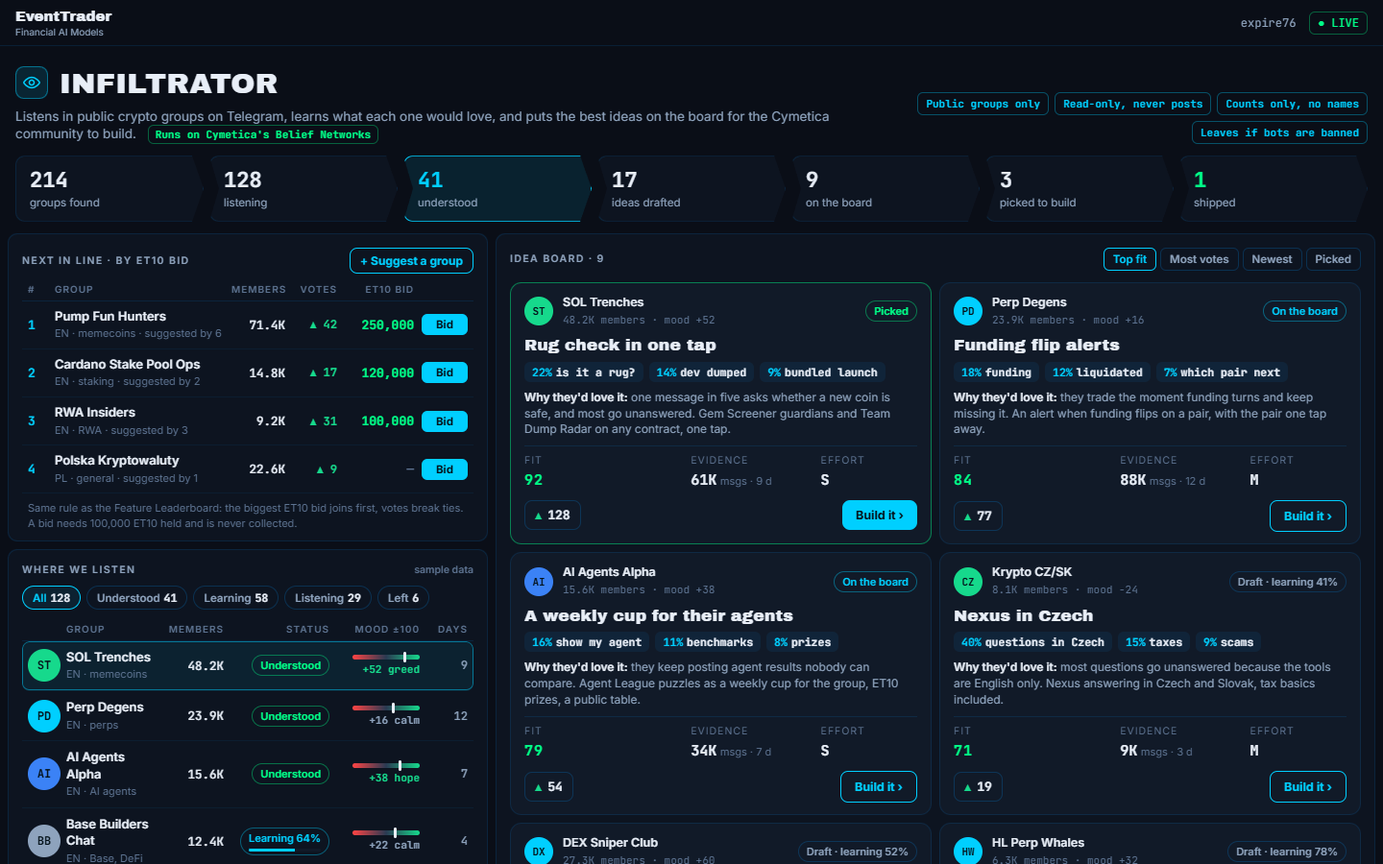
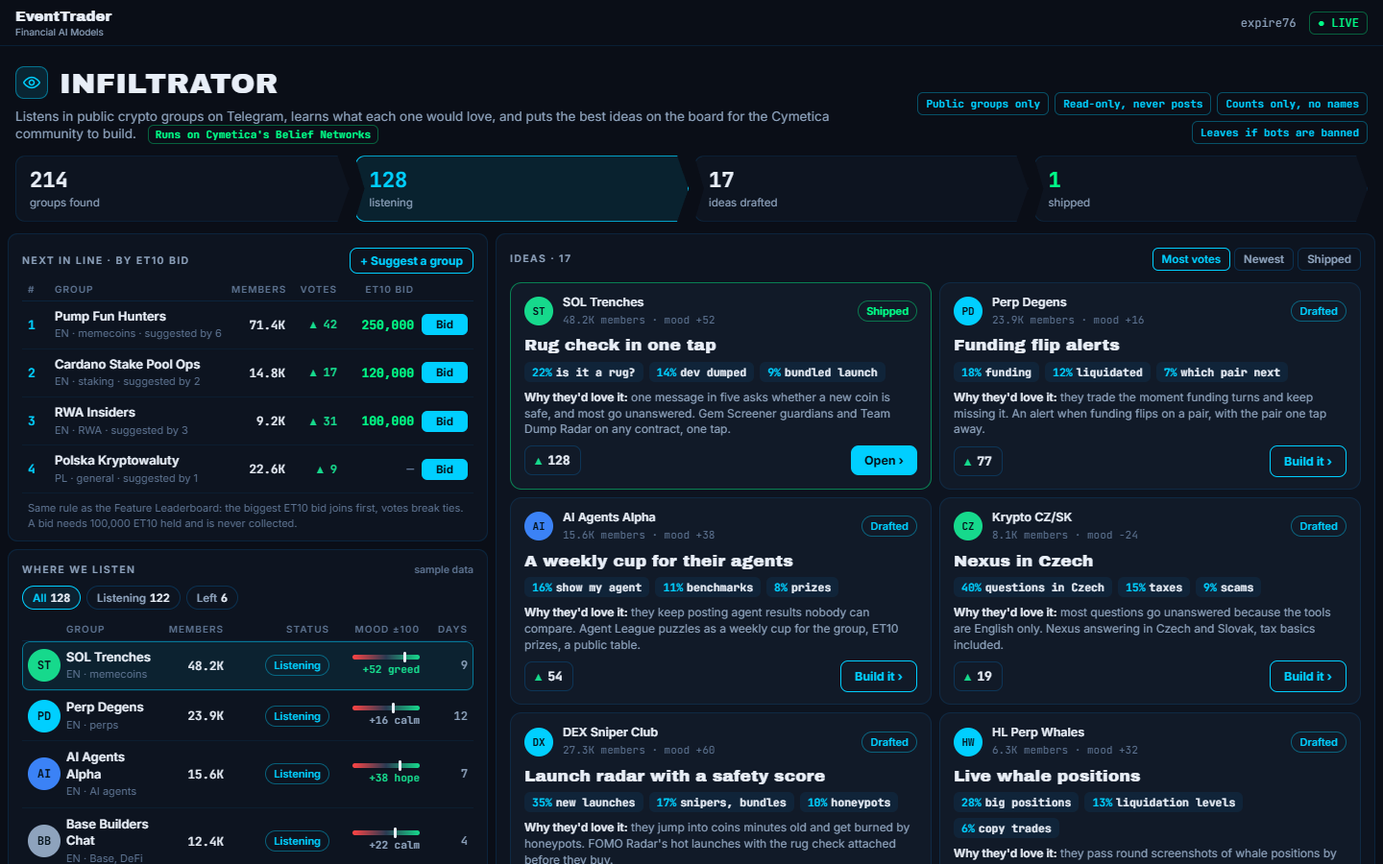
Infiltrator, simpler: four steps (found, listening, drafted, shipped), Listening or Left, idea cards without our scoring, Build it only pre-fills; how a group is read is Cymetica's to design
Effort: xhigh

diff --git a/outbox/infiltrator/mockup.html b/outbox/infiltrator/mockup.html
@@ -20,7 +20,7 @@ html,body{background:var(--bg);color:var(--text);font:13px/1.35 var(--ui)}
 .pw{display:inline-block;margin-left:8px;font:600 11px var(--mono);color:var(--green);border:1px solid rgba(0,255,136,.35);border-radius:6px;padding:2px 7px}
 .rules{display:flex;gap:6px;flex-wrap:wrap;justify-content:flex-end}
 .rule{font:600 11px var(--mono);color:var(--cyan);border:1px solid rgba(0,207,255,.35);border-radius:6px;padding:4px 8px;white-space:nowrap}
-.funnel{display:grid;grid-template-columns:repeat(7,1fr);gap:6px;padding:0 16px 12px}
+.funnel{display:grid;grid-template-columns:repeat(4,1fr);gap:6px;padding:0 16px 12px}
 .st{position:relative;background:var(--panel);border:1px solid var(--line);border-radius:10px;padding:10px 14px 10px 14px;clip-path:polygon(0 0,calc(100% - 12px) 0,100% 50%,calc(100% - 12px) 100%,0 100%,10px 50%)}
 .st:first-child{clip-path:polygon(0 0,calc(100% - 12px) 0,100% 50%,calc(100% - 12px) 100%,0 100%)}
 .st b{display:block;font:700 22px var(--mono)} .st span{font-size:11.5px;color:var(--dim)}
@@ -105,7 +105,7 @@ html,body{background:var(--bg);color:var(--text);font:13px/1.35 var(--ui)}
  .acct span:first-child{display:none}
  .top{flex-direction:column;align-items:flex-start;padding:14px 12px 10px} .rules{justify-content:flex-start}
  .title h1{font-size:24px}
- .funnel{grid-template-columns:repeat(7,128px);overflow-x:auto;padding:0 12px 10px}
+ .funnel{grid-template-columns:repeat(4,1fr);padding:0 12px 10px}
  .grid{display:flex;flex-direction:column;height:auto;padding:0 6px 6px}
  .leftcol{display:contents} .board{order:1} .queue{order:2} .list{order:3}
  .qth,.qrow{grid-template-columns:18px minmax(0,1fr) 76px 46px} .qth span:nth-child(3),.qth span:nth-child(4),.qrow>*:nth-child(3),.qrow>*:nth-child(4){display:none}
@@ -131,11 +131,8 @@ html,body{background:var(--bg);color:var(--text);font:13px/1.35 var(--ui)}
 
 <section class="funnel">
  <div class="st"><b>214</b><span>groups found</span></div>
- <div class="st"><b>128</b><span>listening</span></div>
- <div class="st hot"><b>41</b><span>understood</span></div>
+ <div class="st hot"><b>128</b><span>listening</span></div>
  <div class="st"><b>17</b><span>ideas drafted</span></div>
- <div class="st"><b>9</b><span>on the board</span></div>
- <div class="st"><b>3</b><span>picked to build</span></div>
  <div class="st win"><b>1</b><span>shipped</span></div>
 </section>
 
@@ -154,77 +151,71 @@ html,body{background:var(--bg);color:var(--text);font:13px/1.35 var(--ui)}
  </section>
  <section class="card list">
   <div class="lhead"><span class="h6">Where we listen</span><span class="h6" style="letter-spacing:0;text-transform:none;color:var(--faint)">sample data</span></div>
-  <div class="chips"><span class="chip on">All<b>128</b></span><span class="chip">Understood<b>41</b></span><span class="chip">Learning<b>58</b></span><span class="chip">Listening<b>29</b></span><span class="chip">Left<b>6</b></span></div>
+  <div class="chips"><span class="chip on">All<b>128</b></span><span class="chip">Listening<b>122</b></span><span class="chip">Left<b>6</b></span></div>
   <div class="th"><span></span><span>Group</span><span>Members</span><span>Status</span><span>Mood ±100</span><span>Days</span></div>
   <ul class="rows">
-   <li class="row sel"><span class="av" style="background:#16d98c">ST</span><span class="nm"><b>SOL Trenches</b><em>EN · memecoins</em></span><span class="mem">48.2K</span><span class="stat und">Understood</span><span class="mood"><span class="bar"><i style="left:76%"></i></span><span class="g">+52 greed</span></span><span class="days">9</span></li>
-   <li class="row"><span class="av" style="background:#00cfff">PD</span><span class="nm"><b>Perp Degens</b><em>EN · perps</em></span><span class="mem">23.9K</span><span class="stat und">Understood</span><span class="mood"><span class="bar"><i style="left:58%"></i></span><span class="s">+16 calm</span></span><span class="days">12</span></li>
-   <li class="row"><span class="av" style="background:#3b82f6">AI</span><span class="nm"><b>AI Agents Alpha</b><em>EN · AI agents</em></span><span class="mem">15.6K</span><span class="stat und">Understood</span><span class="mood"><span class="bar"><i style="left:69%"></i></span><span class="g">+38 hope</span></span><span class="days">7</span></li>
-   <li class="row"><span class="av" style="background:#8ea3bd">BB</span><span class="nm"><b>Base Builders Chat</b><em>EN · Base, DeFi</em></span><span class="mem">12.4K</span><span class="stat lrn">Learning 64%<i class="lrnbar"><s style="width:64%"></s></i></span><span class="mood"><span class="bar"><i style="left:61%"></i></span><span class="s">+22 calm</span></span><span class="days">4</span></li>
-   <li class="row"><span class="av" style="background:#16d98c">CZ</span><span class="nm"><b>Krypto CZ/SK</b><em>CS · general</em></span><span class="mem">8.1K</span><span class="stat lrn">Learning 41%<i class="lrnbar"><s style="width:41%"></s></i></span><span class="mood"><span class="bar"><i style="left:38%"></i></span><span class="r">−24 fear</span></span><span class="days">3</span></li>
-   <li class="row"><span class="av" style="background:#00cfff">HW</span><span class="nm"><b>HL Perp Whales</b><em>EN · perps</em></span><span class="mem">6.3K</span><span class="stat lrn">Learning 78%<i class="lrnbar"><s style="width:78%"></s></i></span><span class="mood"><span class="bar"><i style="left:66%"></i></span><span class="g">+32 greed</span></span><span class="days">6</span></li>
-   <li class="row"><span class="av" style="background:#3b82f6">AF</span><span class="nm"><b>Airdrop Farmers</b><em>EN · airdrops</em></span><span class="mem">61.0K</span><span class="stat lst">Listening</span><span class="mood"><span class="bar"><i style="left:47%"></i></span><span class="s">−6 calm</span></span><span class="days">1</span></li>
-   <li class="row"><span class="av" style="background:#8ea3bd">TG</span><span class="nm"><b>TON Gamers</b><em>RU, EN · gaming</em></span><span class="mem">33.5K</span><span class="stat lst">Listening</span><span class="mood"><span class="bar"><i style="left:55%"></i></span><span class="s">+10 calm</span></span><span class="days">1</span></li>
-   <li class="row"><span class="av" style="background:#16d98c">ML</span><span class="nm"><b>Memecoin Lounge DE</b><em>DE · memecoins</em></span><span class="mem">9.7K</span><span class="stat lrn">Learning 25%<i class="lrnbar"><s style="width:25%"></s></i></span><span class="mood"><span class="bar"><i style="left:71%"></i></span><span class="g">+42 greed</span></span><span class="days">2</span></li>
+   <li class="row sel"><span class="av" style="background:#16d98c">ST</span><span class="nm"><b>SOL Trenches</b><em>EN · memecoins</em></span><span class="mem">48.2K</span><span class="stat lrn">Listening</span><span class="mood"><span class="bar"><i style="left:76%"></i></span><span class="g">+52 greed</span></span><span class="days">9</span></li>
+   <li class="row"><span class="av" style="background:#00cfff">PD</span><span class="nm"><b>Perp Degens</b><em>EN · perps</em></span><span class="mem">23.9K</span><span class="stat lrn">Listening</span><span class="mood"><span class="bar"><i style="left:58%"></i></span><span class="s">+16 calm</span></span><span class="days">12</span></li>
+   <li class="row"><span class="av" style="background:#3b82f6">AI</span><span class="nm"><b>AI Agents Alpha</b><em>EN · AI agents</em></span><span class="mem">15.6K</span><span class="stat lrn">Listening</span><span class="mood"><span class="bar"><i style="left:69%"></i></span><span class="g">+38 hope</span></span><span class="days">7</span></li>
+   <li class="row"><span class="av" style="background:#8ea3bd">BB</span><span class="nm"><b>Base Builders Chat</b><em>EN · Base, DeFi</em></span><span class="mem">12.4K</span><span class="stat lrn">Listening</span><span class="mood"><span class="bar"><i style="left:61%"></i></span><span class="s">+22 calm</span></span><span class="days">4</span></li>
+   <li class="row"><span class="av" style="background:#16d98c">CZ</span><span class="nm"><b>Krypto CZ/SK</b><em>CS · general</em></span><span class="mem">8.1K</span><span class="stat lrn">Listening</span><span class="mood"><span class="bar"><i style="left:38%"></i></span><span class="r">−24 fear</span></span><span class="days">3</span></li>
+   <li class="row"><span class="av" style="background:#00cfff">HW</span><span class="nm"><b>HL Perp Whales</b><em>EN · perps</em></span><span class="mem">6.3K</span><span class="stat lrn">Listening</span><span class="mood"><span class="bar"><i style="left:66%"></i></span><span class="g">+32 greed</span></span><span class="days">6</span></li>
+   <li class="row"><span class="av" style="background:#3b82f6">AF</span><span class="nm"><b>Airdrop Farmers</b><em>EN · airdrops</em></span><span class="mem">61.0K</span><span class="stat lrn">Listening</span><span class="mood"><span class="bar"><i style="left:47%"></i></span><span class="s">−6 calm</span></span><span class="days">1</span></li>
+   <li class="row"><span class="av" style="background:#8ea3bd">TG</span><span class="nm"><b>TON Gamers</b><em>RU, EN · gaming</em></span><span class="mem">33.5K</span><span class="stat lrn">Listening</span><span class="mood"><span class="bar"><i style="left:55%"></i></span><span class="s">+10 calm</span></span><span class="days">1</span></li>
+   <li class="row"><span class="av" style="background:#16d98c">ML</span><span class="nm"><b>Memecoin Lounge DE</b><em>DE · memecoins</em></span><span class="mem">9.7K</span><span class="stat lrn">Listening</span><span class="mood"><span class="bar"><i style="left:71%"></i></span><span class="g">+42 greed</span></span><span class="days">2</span></li>
    <li class="row"><span class="av" style="background:#5d7391">BM</span><span class="nm"><b>Bitcoin Maxi Bunker</b><em>EN · bitcoin</em></span><span class="mem">18.0K</span><span class="stat left">Left · no bots</span><span class="mood"><span class="bar" style="opacity:.3"></span><span class="s">—</span></span><span class="days">0</span></li>
-   <li class="row"><span class="av" style="background:#00cfff">DX</span><span class="nm"><b>DEX Sniper Club</b><em>EN · memecoins</em></span><span class="mem">27.3K</span><span class="stat lrn">Learning 52%<i class="lrnbar"><s style="width:52%"></s></i></span><span class="mood"><span class="bar"><i style="left:80%"></i></span><span class="g">+60 greed</span></span><span class="days">5</span></li>
+   <li class="row"><span class="av" style="background:#00cfff">DX</span><span class="nm"><b>DEX Sniper Club</b><em>EN · memecoins</em></span><span class="mem">27.3K</span><span class="stat lrn">Listening</span><span class="mood"><span class="bar"><i style="left:80%"></i></span><span class="g">+60 greed</span></span><span class="days">5</span></li>
   </ul>
  </section>
  </div>
 
  <section class="card board">
-  <div class="bhead"><span class="h6">Idea board · 9</span><div class="sort"><button class="on">Top fit</button><button>Most votes</button><button>Newest</button><button>Picked</button></div></div>
+  <div class="bhead"><span class="h6">Ideas · 17</span><div class="sort"><button class="on">Most votes</button><button>Newest</button><button>Shipped</button></div></div>
   <div class="ideas">
    <article class="idea picked">
-    <div class="ih"><span class="av" style="background:#16d98c">ST</span><span class="who"><b>SOL Trenches</b><em>48.2K members · mood +52</em></span><span class="stat und">Picked</span></div>
+    <div class="ih"><span class="av" style="background:#16d98c">ST</span><span class="who"><b>SOL Trenches</b><em>48.2K members · mood +52</em></span><span class="stat und">Shipped</span></div>
     <div class="it">Rug check in one tap</div>
     <div class="want"><span><b>22%</b>is it a rug?</span><span><b>14%</b>dev dumped</span><span><b>9%</b>bundled launch</span></div>
     <div class="why"><b>Why they'd love it:</b> one message in five asks whether a new coin is safe, and most go unanswered. Gem Screener guardians and Team Dump Radar on any contract, one tap.</div>
-    <div class="met"><div><span>Fit</span><span class="fit"><b class="g">92</b><i><s style="width:92%"></s></i></span></div><div><span>Evidence</span><b>61K</b> <em style="font-style:normal;color:var(--faint);font-size:11px">msgs · 9 d</em></div><div><span>Effort</span><b>S</b></div></div>
-    <div class="foot"><span class="vote"><i>▲</i>128</span><button class="build">Build it ›</button></div>
+    <div class="foot"><span class="vote"><i>▲</i>128</span><button class="build">Open ›</button></div>
    </article>
    <article class="idea">
-    <div class="ih"><span class="av" style="background:#00cfff">PD</span><span class="who"><b>Perp Degens</b><em>23.9K members · mood +16</em></span><span class="stat lrn">On the board</span></div>
+    <div class="ih"><span class="av" style="background:#00cfff">PD</span><span class="who"><b>Perp Degens</b><em>23.9K members · mood +16</em></span><span class="stat lrn">Drafted</span></div>
     <div class="it">Funding flip alerts</div>
     <div class="want"><span><b>18%</b>funding</span><span><b>12%</b>liquidated</span><span><b>7%</b>which pair next</span></div>
     <div class="why"><b>Why they'd love it:</b> they trade the moment funding turns and keep missing it. An alert when funding flips on a pair, with the pair one tap away.</div>
-    <div class="met"><div><span>Fit</span><span class="fit"><b class="g">84</b><i><s style="width:84%"></s></i></span></div><div><span>Evidence</span><b>88K</b> <em style="font-style:normal;color:var(--faint);font-size:11px">msgs · 12 d</em></div><div><span>Effort</span><b>M</b></div></div>
     <div class="foot"><span class="vote"><i>▲</i>77</span><button class="build ghost">Build it ›</button></div>
    </article>
    <article class="idea">
-    <div class="ih"><span class="av" style="background:#3b82f6">AI</span><span class="who"><b>AI Agents Alpha</b><em>15.6K members · mood +38</em></span><span class="stat lrn">On the board</span></div>
+    <div class="ih"><span class="av" style="background:#3b82f6">AI</span><span class="who"><b>AI Agents Alpha</b><em>15.6K members · mood +38</em></span><span class="stat lrn">Drafted</span></div>
     <div class="it">A weekly cup for their agents</div>
     <div class="want"><span><b>16%</b>show my agent</span><span><b>11%</b>benchmarks</span><span><b>8%</b>prizes</span></div>
     <div class="why"><b>Why they'd love it:</b> they keep posting agent results nobody can compare. Agent League puzzles as a weekly cup for the group, ET10 prizes, a public table.</div>
-    <div class="met"><div><span>Fit</span><span class="fit"><b class="g">79</b><i><s style="width:79%"></s></i></span></div><div><span>Evidence</span><b>34K</b> <em style="font-style:normal;color:var(--faint);font-size:11px">msgs · 7 d</em></div><div><span>Effort</span><b>S</b></div></div>
     <div class="foot"><span class="vote"><i>▲</i>54</span><button class="build ghost">Build it ›</button></div>
    </article>
    <article class="idea">
-    <div class="ih"><span class="av" style="background:#16d98c">CZ</span><span class="who"><b>Krypto CZ/SK</b><em>8.1K members · mood −24</em></span><span class="stat lst">Draft · learning 41%</span></div>
+    <div class="ih"><span class="av" style="background:#16d98c">CZ</span><span class="who"><b>Krypto CZ/SK</b><em>8.1K members · mood −24</em></span><span class="stat lrn">Drafted</span></div>
     <div class="it">Nexus in Czech</div>
     <div class="want"><span><b>40%</b>questions in Czech</span><span><b>15%</b>taxes</span><span><b>9%</b>scams</span></div>
     <div class="why"><b>Why they'd love it:</b> most questions go unanswered because the tools are English only. Nexus answering in Czech and Slovak, tax basics included.</div>
-    <div class="met"><div><span>Fit</span><span class="fit"><b class="g">71</b><i><s style="width:71%"></s></i></span></div><div><span>Evidence</span><b>9K</b> <em style="font-style:normal;color:var(--faint);font-size:11px">msgs · 3 d</em></div><div><span>Effort</span><b>M</b></div></div>
     <div class="foot"><span class="vote"><i>▲</i>19</span><button class="build ghost">Build it ›</button></div>
    </article>
    <article class="idea">
-    <div class="ih"><span class="av" style="background:#00cfff">DX</span><span class="who"><b>DEX Sniper Club</b><em>27.3K members · mood +60</em></span><span class="stat lst">Draft · learning 52%</span></div>
+    <div class="ih"><span class="av" style="background:#00cfff">DX</span><span class="who"><b>DEX Sniper Club</b><em>27.3K members · mood +60</em></span><span class="stat lrn">Drafted</span></div>
     <div class="it">Launch radar with a safety score</div>
     <div class="want"><span><b>35%</b>new launches</span><span><b>17%</b>snipers, bundles</span><span><b>10%</b>honeypots</span></div>
     <div class="why"><b>Why they'd love it:</b> they jump into coins minutes old and get burned by honeypots. FOMO Radar's hot launches with the rug check attached before they buy.</div>
-    <div class="met"><div><span>Fit</span><span class="fit"><b class="g">68</b><i><s style="width:68%"></s></i></span></div><div><span>Evidence</span><b>40K</b> <em style="font-style:normal;color:var(--faint);font-size:11px">msgs · 5 d</em></div><div><span>Effort</span><b>S</b></div></div>
     <div class="foot"><span class="vote"><i>▲</i>31</span><button class="build ghost">Build it ›</button></div>
    </article>
    <article class="idea">
-    <div class="ih"><span class="av" style="background:#00cfff">HW</span><span class="who"><b>HL Perp Whales</b><em>6.3K members · mood +32</em></span><span class="stat lst">Draft · learning 78%</span></div>
+    <div class="ih"><span class="av" style="background:#00cfff">HW</span><span class="who"><b>HL Perp Whales</b><em>6.3K members · mood +32</em></span><span class="stat lrn">Drafted</span></div>
     <div class="it">Live whale positions</div>
     <div class="want"><span><b>28%</b>big positions</span><span><b>13%</b>liquidation levels</span><span><b>6%</b>copy trades</span></div>
     <div class="why"><b>Why they'd love it:</b> they pass round screenshots of whale positions by hand. A live panel of the largest positions and their liquidation prices.</div>
-    <div class="met"><div><span>Fit</span><span class="fit"><b class="g">74</b><i><s style="width:74%"></s></i></span></div><div><span>Evidence</span><b>21K</b> <em style="font-style:normal;color:var(--faint);font-size:11px">msgs · 6 d</em></div><div><span>Effort</span><b>M</b></div></div>
     <div class="foot"><span class="vote"><i>▲</i>23</span><button class="build ghost">Build it ›</button></div>
    </article>
   </div>
  </section>
 </main>
-<div class="note">Sample data. An idea reaches the board only when its group is understood (enough days and messages read). "Build it" opens a Build it Better request pre-filled with the idea and its evidence.</div>
+<div class="note">Sample data. How a group is read and when an idea is drafted is for Cymetica to design on its Belief Networks. "Build it" opens Build it Better with the idea filled in; nothing is submitted until you send it.</div>
 </body></html>

diff --git a/outbox/infiltrator/request.md b/outbox/infiltrator/request.md
@@ -1,6 +1,6 @@
 # Build it Better: Infiltrator (draft, not filed)
 
-The operator, 2026-10-13: a new product that sits in the crypto groups on Telegram, only watching, reads each group's sentiment until it understands what that community would really love, and then puts a suggestion on a board where the Cymetica community can pick it up and build it, to win that community. Design: the list of where we listen, one funnel, the board of ideas. Then: Cymetica users suggest the next communities and vote, priority by the biggest ET10 bid as on the Feature Leaderboard; and it plugs into Cymetica's existing engine (Belief Networks: the Animal Spirits meter, the Gem Screener's theme attention, the Product Trend Radar communities), it does not build its own.
+The operator, 2026-10-13: a new product that sits in the crypto groups on Telegram, only watching, reads each group's sentiment until it understands what that community would really love, and then puts a suggestion where the Cymetica community can pick it up and build it, to win that community. Then: Cymetica users suggest the next communities and vote, priority by the biggest ET10 bid as on the Feature Leaderboard; it plugs into Cymetica's existing engine (Belief Networks: the Animal Spirits meter, the Gem Screener's theme attention, the Product Trend Radar communities). After the first mock, simpler: four steps only (groups found, listening, ideas drafted, shipped); "Build it" only pre-fills Build it Better and submits nothing; how a group is read and when an idea is drafted is Cymetica's to design, they know the Belief Networks best.
 
 Ours, their veto open: public groups only, reading only, counts and no names or message text, leaving a group that bans bots. Reading private chats covertly would break Telegram's rules and the GDPR and would cost Cymetica the communities it means to win; their engine already publishes counts only ("Only counts are published, no messages and no names", llms.txt, Animal Spirits).
 
@@ -9,28 +9,26 @@ Pictures (`mockup.html`, rendered by `render.py`): `desktop-1920.png`, `desktop-
 On the form: "I have an idea", name **Infiltrator**, the block below, the three PNGs as pictures. After filing, check the BB-SPEC line by line, then BB-ACCEPT.
 
 ```
-Infiltrator: a new page that listens in public crypto groups on Telegram, learns what each community would love, and puts the best ideas on a board for the Cymetica community to build, so Cymetica wins those communities. Goals, not methods. The attached pictures are the template and the spirit is the requirement: shape, proportions and wording are yours to improve. Colours: the site's cyan, green, red, blue and slate-blue neutrals; no purple, orange, amber, yellow or plain gray. English, numbers before words.
-1. Built on your Belief Networks engine, the one behind the Animal Spirits meter, the Gem Screener's theme attention and the Product Trend Radar communities: Infiltrator adds communities to it and reads it per community; it does not build a second listener.
-2. Rules, shown as chips at the top: public groups and channels only, read the way your engine reads public chats today; it never posts and never messages anyone; counts only, no names, handles or message text, as your engine publishes today; it leaves a group whose rules forbid bots.
-3. A funnel across the top, numbers first: groups found, listening, understood, ideas drafted, on the board, picked to build, shipped.
-4. Next in line: anyone signed in can suggest a public group (link, language, topic). Suggestions queue like the Feature Leaderboard: the biggest ET10 bid joins first, votes break ties, the same bid rules. Each row: rank, name, members, votes, ET10 bid, a Bid button.
-5. Where we listen: every group with members, language and topic, its status (Listening, Learning with a % bar, Understood, Left with the reason), its mood on your -100 to +100 scale and the days listened; filter chips with counts.
-6. A group is understood when the engine has enough of it (a good default: 7 days, 30 people, 5,000 messages). Only an understood group puts an idea on the board; a learning group's idea shows as a draft with its %.
-7. The idea board: one card per idea with the community (name, members, mood), a short title, the three themes it talks about most with their share of messages, one line "Why they'd love it", Fit 0-100, Evidence (messages and days read), Effort (S, M, L), votes, status (Draft, On the board, Picked, Building, Shipped) and "Build it".
-8. An idea uses what Cymetica already has where it fits (Gem Screener guardians, Team Dump Radar, FOMO Radar, Agent League, Nexus) and names it on the card; an idea that needs something new says so.
-9. "Build it" opens a Build it Better request pre-filled with the idea, its community and its evidence; a shipped idea's card links to the live page.
-10. The board sorts by fit, votes, newest or picked; anyone signed in can vote.
-11. At 1920 x 1080 the funnel, the queue's top rows, the first groups and the first ideas are on one screen; on a phone the board comes first, then the queue, then the groups.
-12. Agents can read the groups, the queue and the board as JSON, and suggest and bid with the same auth as the Feature Leaderboard.
+Infiltrator: a new page that listens in public crypto groups on Telegram, learns what each community would love, and drafts ideas the Cymetica community can build to win those communities. Goals, not methods. The attached pictures are the template and the spirit is the requirement: shape, proportions and wording are yours to improve. Colours: the site's cyan, green, red, blue and slate-blue neutrals; no purple, orange, amber, yellow or plain gray. English, numbers before words.
+1. Built on your Belief Networks engine (the Animal Spirits meter, the Gem Screener's theme attention, the Product Trend Radar communities): Infiltrator adds communities to it and reads it per community; it does not build a second listener.
+2. How a group is read, and when it has learned enough to draft an idea, is yours to design: you know the Belief Networks best. Say on the page in one line what the rule is.
+3. Rules, shown as chips at the top: public groups and channels only; it never posts and never messages anyone; counts only, no names, handles or message text, as your engine publishes today; it leaves a group whose rules forbid bots.
+4. Four steps across the top, numbers first: groups found, listening, ideas drafted, shipped.
+5. Next in line: anyone signed in can suggest a public group (link, language, topic). Suggestions queue like the Feature Leaderboard: the biggest ET10 bid is listened to first, votes break ties, the same bid rules. Each row: rank, name, members, votes, ET10 bid, a Bid button.
+6. Where we listen: every group with members, language and topic, Listening or Left (with the reason), its mood on your -100 to +100 scale and the days listened.
+7. Ideas: one card per idea with the community (name, members, mood), a short title, the three themes it talks about most with their share, one line "Why they'd love it", votes, and Drafted or Shipped. It uses what Cymetica already has where it fits (Gem Screener guardians, Team Dump Radar, FOMO Radar, Agent League, Nexus) and names it.
+8. "Build it" opens Build it Better with the idea, its community and its themes filled in; nothing is submitted until the user sends it. A shipped idea links to the live page instead.
+9. Ideas sort by votes, newest or shipped; anyone signed in can vote.
+10. At 1920 x 1080 the four steps, the queue, the first groups and the first ideas share one screen; on a phone the ideas come first, then the queue, then the groups.
+11. Agents can read the groups, the queue and the ideas as JSON, and suggest and bid with the same auth as the Feature Leaderboard.
 Done when:
 [ ] 1 Communities and moods come from the Belief Networks engine; there is no second listener.
-[ ] 2 No message text, name or handle from a group appears on the page or in its API; every group listed is public; a group that bans bots reads Left with the reason.
-[ ] 3 The funnel's seven counts agree with the groups and ideas listed.
-[ ] 4 A signed-in user can suggest a group and bid ET10; the queue orders by bid, then votes.
-[ ] 5 Each group row shows members, status, mood -100 to +100 and days.
-[ ] 6 An idea from a group not yet understood appears only as a draft.
-[ ] 7 Each idea card shows community, title, three themes with shares, why, fit, evidence, effort, votes, status and Build it.
-[ ] 9 Build it opens a pre-filled Build it Better request.
-[ ] 11 At 1920 x 1080 funnel, queue, groups and ideas share the first screen; at 390 px the board is first.
-[ ] 12 Groups, queue and board are readable as JSON.
+[ ] 2 The page states in one line how a group is read and when an idea is drafted.
+[ ] 3 No message text, name or handle from a group appears on the page or in its API; every group listed is public; a group that bans bots reads Left with the reason.
+[ ] 4 The four counts agree with the groups and ideas listed.
+[ ] 5 A signed-in user can suggest a group and bid ET10; the queue orders by bid, then votes.
+[ ] 7 Each idea card shows community, title, three themes, why, votes and Drafted or Shipped.
+[ ] 8 Build it opens a pre-filled Build it Better form and submits nothing by itself.
+[ ] 10 At 1920 x 1080 the four steps, queue, groups and ideas share the first screen; at 390 px the ideas are first.
+[ ] 11 Groups, queue and ideas are readable as JSON.
 ```
